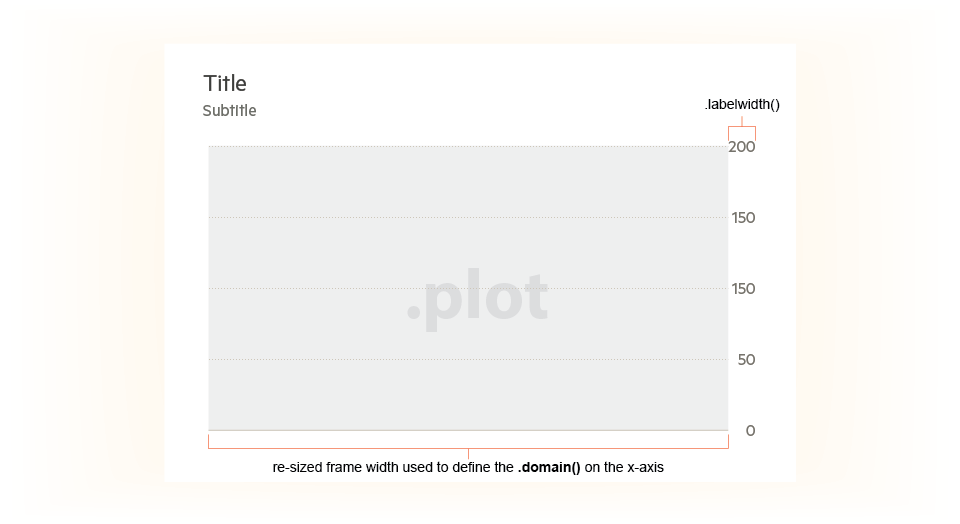
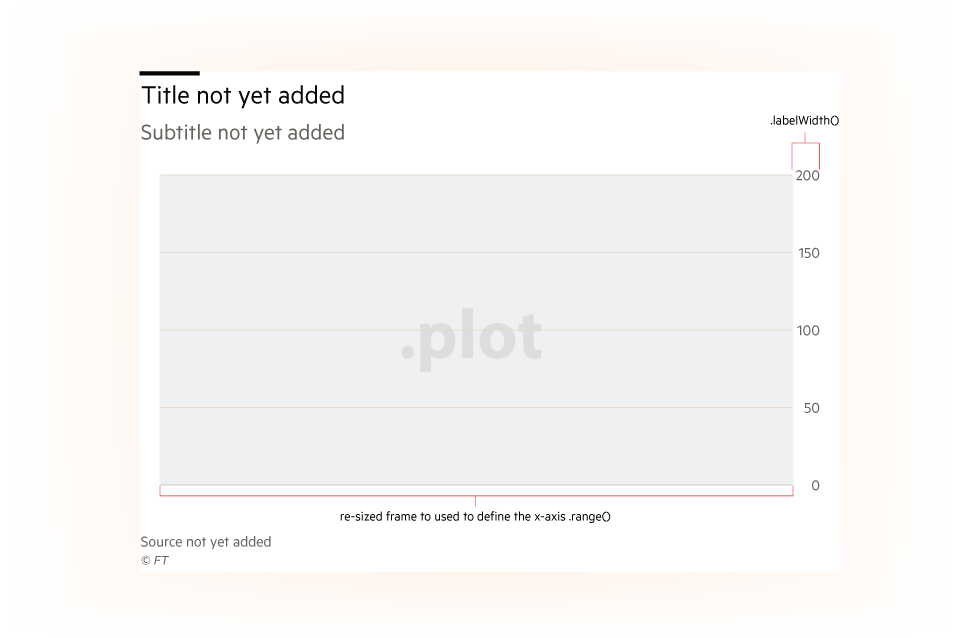
Update yLinear resized image and ReadMe

diff --git a/README.md b/README.md
@@ -92,22 +92,22 @@ currentFrame.plot()
 The rendered axis returns the width of the widest text label on the y- axis via <b>.labelWidth()</b>. this will vary depending on the text e.g. '100,000' will return a larger value than '10'
 ![alt tag](https://github.com/ft-interactive/g-axis/blob/master/images/yLinear-labelwidth.png))
 
-<b>.labelWidth()</b> is used to amend the appropriate margin of the current frame so that tick text is positioned outside it. The following code when added to you index.js file after the y-axis has been called will resize the margin depending on the <b>.align()</b> setting which is 'right' by default.
+<b>.labelWidth()</b> is used to amend the appropriate margin of the current frame so that tick text is positioned outside it. The following code when added to you index.js file after the y-axis has been called will resize the margin depending on the <b>.align()</b> setting which is 'right' by default.<b>Note yAxisAlign</b> is usually one of the user defined variable earlier in the code.
 ```
-if (align == 'right' ){
-            let newMargin = yAxis.labelWidth()+currentFrame.margin().right
-            //Use newMargin redefine the new margin and range of xAxis
-            currentFrame.margin({right:newMargin});
-            //yAxis.yLabel().attr('transform', `translate(${currentFrame.dimension().width},0)`);
-        }
-        if (align == 'left' ){
-            let newMargin = yAxis.labelWidth()+currentFrame.margin().left
-            //Use newMargin redefine the new margin and range of xAxis
-            currentFrame.margin({left:newMargin});
-            yAxis.yLabel().attr('transform', `translate(${(yAxis.tickSize()-yAxis.labelWidth())},0)`);
-        }
-        d3.select(currentFrame.plot().node().parentNode)
-            .call(currentFrame);
+// return the value in the variable newMargin and move axis if needed
+    if (yAxisAlign === 'right') {
+      const newMargin = yAxis.labelWidth() + currentFrame.margin().right;
+      // Use newMargin redefine the new margin and range of xAxis
+      currentFrame.margin({ right: newMargin });
+    }
+    if (yAxisAlign === 'left') {
+      const newMargin = yAxis.labelWidth() + currentFrame.margin().left;
+      // Use newMargin redefine the new margin and range of xAxis
+      currentFrame.margin({ left: newMargin });
+      yAxis.yLabel().attr('transform', `translate(${(yAxis.tickSize() - yAxis.labelWidth())},0)`);
+    }
+    d3.select(currentFrame.plot().node().parentNode)
+        .call(currentFrame);
 ```
 ![alt tag](https://github.com/ft-interactive/g-axis/blob/master/images/yLinear-resized.png)
 
